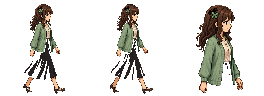
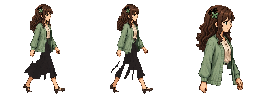
Fix board sprite gaps, online VFX parity, and quick-match pairing.
Seal transparent holes in walk/pose sheets and draw frames at native size; restore pack-aware combat FX online; allow two local tabs to Elo-match even when they share a player id.

diff --git a/src/render/field.js b/src/render/field.js
@@ -114,8 +114,32 @@ export class FieldView {
       case 'bolt-hit':
         this.tileBurst(ev.i, BOLT_COLOR[ev.kind] || '#e9f6ff', 12, 220);
         break;
+      case 'bolt-bounce':
+        sfx.play('toggle');
+        break;
+      case 'skill':
+        if (this.anim?.[ev.pid]) this.anim[ev.pid].castT = Math.max(this.anim[ev.pid].castT, 0.35);
+        sfx.play('buff');
+        break;
+      case 'ignite':
+        this.tileBurst(ev.i, '#ff8a3c', 10, 140, { up: 50, size: 5 });
+        sfx.play('burn');
+        break;
+      case 'gas': {
+        const color = gasInfo(game, ev.kind)?.color || '#d6e86a';
+        this.tileBurst(ev.i, color, 6, 70, { gravity: -25, size: 7, life: 0.55 });
+        sfx.play('gas');
+        break;
+      }
+      case 'glitch':
+        this.tileBurst(ev.i, '#9ad0ff', 8, 100, { gravity: -10, size: 4, life: 0.45 });
+        sfx.play('warn');
+        break;
+      case 'glitch-clear':
+        this.tileBurst(ev.i, '#cfe0ff', 4, 60, { size: 3, life: 0.3 });
+        break;
       case 'telegraph': sfx.play('warn'); break;
-      case 'strike': this.onStrike(ev, sfx); break;
+      case 'strike': this.onStrike(game, ev, sfx); break;
       case 'explosion': {
         const c = this.tileBurst(ev.i, '#ffb23c', 18, 320, { size: 6 });
         this.burst(c.x, c.y, '#fff1b8', 8, 180, { size: 4 });
@@ -190,8 +214,9 @@ export class FieldView {
     }
   }
 
-  onStrike(ev, sfx) {
-    const color = (ev.kind === 'gas' ? GASES[ev.gas]?.color : STRIKE_COLOR[ev.kind]) || '#e9f6ff';
+  onStrike(game, ev, sfx) {
+    const gasColor = gasInfo(game, ev.gas)?.color;
+    const color = (ev.kind === 'gas' ? gasColor : STRIKE_COLOR[ev.kind]) || '#e9f6ff';
     for (const i of ev.tiles) {
       if (ev.kind === 'gas') this.tileBurst(i, color, 4, 60, { gravity: -20, size: 9, life: 0.7 });
       else if (ev.kind === 'water') this.tileBurst(i, color, 7, 150, { up: 120 });
@@ -205,11 +230,13 @@ export class FieldView {
       } else if (ev.kind === 'base') {
         const c = this.tileBurst(i, color, 6, 140, { up: 50, size: 5 });
         this.ring(c.x, c.y, color, 42, 0.28);
+      } else if (ev.kind === 'spark') {
+        this.tileBurst(i, color, 10, 200, { size: 4 });
       } else if (ev.kind !== 'blast') this.tileBurst(i, color, 7, 160, { up: 80 });
     }
     if (ev.kind === 'trump') this.shake = 22;
     const sound = {
-      gas: 'gas', water: 'splash', frost: 'freeze', acid: 'splash', fire: 'burn', cyanide: 'hit', knockout: 'hit', solvent: 'hit', trump: 'boom', wall: 'shield', base: 'splash',
+      gas: 'gas', water: 'splash', frost: 'freeze', acid: 'splash', fire: 'burn', cyanide: 'hit', knockout: 'hit', solvent: 'hit', trump: 'boom', wall: 'shield', base: 'splash', spark: 'bolt',
     }[ev.kind];
     if (sound) sfx.play(sound);
   }
@@ -309,7 +336,7 @@ export class FieldView {
       }
     }
     for (const pid of humans) drawAim(ctx, game.players[pid], time);
-    for (const s of game.strikes) drawTelegraph(ctx, s, time);
+    for (const s of game.strikes) drawTelegraph(ctx, s, time, game);
 
     // Back rows first so chemists and flames overlap the tiles behind them.
     for (let r = 0; r < ROWS; r++) {
@@ -320,7 +347,7 @@ export class FieldView {
         const tile = game.tiles[r * COLS + c];
         const rect = tileRect(c, r);
         if (tile.surf === 'fire') drawFlames(ctx, rect, r * COLS + c, time, Math.min(1, tile.t / 0.4));
-        if (tile.gas) drawGas(ctx, rect, r * COLS + c, tile.gas, time);
+        if (tile.gas) drawGas(ctx, rect, r * COLS + c, tile.gas, time, game);
         if (tile.glitch) drawGlitch(ctx, rect, r * COLS + c, tile.glitch, time, game);
       }
     }
@@ -500,8 +527,13 @@ function drawFlames(ctx, { x, y, w, h }, i, time, fade) {
   }
 }
 
-function drawGas(ctx, { x, y, w, h }, i, gas, time) {
-  const g = GASES[gas.kind];
+function gasInfo(game, kind) {
+  if (!kind) return null;
+  return game?.pack?.gases?.[kind] || GASES[kind] || null;
+}
+
+function drawGas(ctx, { x, y, w, h }, i, gas, time, game) {
+  const g = gasInfo(game, gas.kind);
   if (!g) return;
   const fade = Math.min(1, gas.t / 0.6);
   for (let k = 0; k < 22; k++) {
@@ -545,8 +577,8 @@ function recipeOf(game, id) {
   return game?.pack?.RECIPE_BY_ID?.[id] || RECIPE_BY_ID[id] || null;
 }
 
-function drawTelegraph(ctx, s, time) {
-  const color = (s.kind === 'gas' ? GASES[s.gas]?.color : STRIKE_COLOR[s.kind]) || '#e9f6ff';
+function drawTelegraph(ctx, s, time, game) {
+  const color = (s.kind === 'gas' ? gasInfo(game, s.gas)?.color : STRIKE_COLOR[s.kind]) || '#e9f6ff';
   const k = Math.min(1, s.t / s.delay);
   const blink = Math.floor(time * 12) % 2;
   for (const i of s.tiles) {

diff --git a/test/net.room.test.js b/test/net.room.test.js
@@ -1,0 +1,75 @@
+import test from 'node:test';
+import assert from 'node:assert/strict';
+import { Room } from '../src/net/room.js';
+import { Matchmaker } from '../src/net/matchmaker.js';
+import { step } from '../src/sim/game.js';
+import { TUNE } from '../src/sim/world.js';
+
+function mockConn(id) {
+  const messages = [];
+  return {
+    id,
+    messages,
+    send: (raw) => messages.push(typeof raw === 'string' ? JSON.parse(raw) : raw),
+    close: () => {},
+  };
+}
+
+function lastOfType(conn, type) {
+  return [...conn.messages].reverse().find((m) => m.type === type);
+}
+
+test('room recipe effects apply the same as local play (acid bolt damages foe)', async () => {
+  const room = new Room('TEST');
+  const a = mockConn('a');
+  const b = mockConn('b');
+  room.onConnect(a);
+  room.onConnect(b);
+
+  room.onMessage(a, { type: 'ready', characterId: 'akari', name: 'A' });
+  room.onMessage(b, { type: 'ready', characterId: 'sora', name: 'B' });
+  assert.equal(room.phase, 'playing');
+  assert.ok(room.game);
+  room.stopLoop(); // drive the sim ourselves
+
+  // Skip countdown.
+  step(room.game, TUNE.countdown + 0.05);
+  assert.equal(room.game.phase, 'playing');
+
+  const p0 = room.game.players[0];
+  const p1 = room.game.players[1];
+  Object.assign(p0, { col: 1, row: 1 });
+  Object.assign(p1, { col: 5, row: 1, hp: 100 });
+
+  // Put HCl in pot A and run (instant acid bolt).
+  p0.hotbar[0].el = 'H';
+  p0.hotbar[1].el = 'Cl';
+  assert.ok(room.onMessage(a, { type: 'act', action: { type: 'slot', i: 0 } }) !== false);
+  room.onMessage(a, { type: 'act', action: { type: 'slot', i: 1 } });
+  room.onMessage(a, { type: 'act', action: { type: 'run' } });
+  assert.ok(room.game.bolts.length >= 1, 'acid bolt should spawn');
+
+  // Drive bolts across the board.
+  for (let i = 0; i < 90; i++) step(room.game, 1 / 60);
+
+  assert.ok(p1.hp < 100, `foe should take acid damage, hp=${p1.hp}`);
+});
+
+test('matchmaker pairs two tabs that share a playerId', async () => {
+  const store = {};
+  const mm = new Matchmaker({
+    load: (k) => store[k],
+    save: (k, v) => { store[k] = v; },
+    createCode: () => 'AB12',
+  });
+  const a = mockConn('tab1');
+  const b = mockConn('tab2');
+  mm.onConnect(a);
+  mm.onConnect(b);
+  await mm.enqueue(a, { playerId: 'same', name: 'A', packId: 'chemistry' });
+  await mm.enqueue(b, { playerId: 'same', name: 'B', packId: 'chemistry' });
+  assert.ok(lastOfType(a, 'matched'), 'tab1 matched');
+  assert.ok(lastOfType(b, 'matched'), 'tab2 matched');
+  assert.equal(lastOfType(a, 'matched').code, 'AB12');
+  mm.stop();
+});

diff --git a/src/net/matchmaker.js b/src/net/matchmaker.js
@@ -65,6 +65,7 @@ export class Matchmaker {
   }
 
   onConnect(conn) {
+    if (conn.id == null) conn.id = `q_${Math.random().toString(36).slice(2, 9)}`;
     this.start();
     this.send(conn, { type: 'queue_hello' });
   }
@@ -142,7 +143,7 @@ export class Matchmaker {
 
     for (let i = 0; i < waiting.length; i++) {
       const a = waiting[i];
-      if (used.has(a.playerId)) continue;
+      if (used.has(a.conn.id)) continue;
       if (!this.queue.includes(a)) continue;
 
       let best = null;
@@ -152,8 +153,9 @@ export class Matchmaker {
       for (let j = 0; j < waiting.length; j++) {
         if (i === j) continue;
         const b = waiting[j];
-        if (used.has(b.playerId)) continue;
-        if (a.playerId === b.playerId) continue;
+        // Pair by connection so two browser tabs (same localStorage playerId)
+        // can still quick-match for local testing.
+        if (used.has(b.conn.id) || a.conn === b.conn) continue;
         if (a.packId !== b.packId) continue;
         if (!this.queue.includes(b)) continue;
         const diff = Math.abs(a.elo - b.elo);
@@ -167,8 +169,8 @@ export class Matchmaker {
       }
 
       if (!best) continue;
-      used.add(a.playerId);
-      used.add(best.playerId);
+      used.add(a.conn.id);
+      used.add(best.conn.id);
       await this.pair(a, best);
     }
 

diff --git a/src/render/sprites.js b/src/render/sprites.js
@@ -28,9 +28,9 @@ export function preloadPortraits(chars) {
   for (const entry of chars) {
     const id = typeof entry === 'string' ? entry : entry.id;
     const pack = typeof entry === 'string' ? 'chemistry' : (entry.pack || 'chemistry');
-    load(portraits, id, characterAsset(id, pack, 'portrait.png', 'pack20'));
-    load(walks, id, characterAsset(id, pack, 'walk.png', 'pack20'));
-    load(poses, id, characterAsset(id, pack, 'poses.png', 'pack20'));
+    load(portraits, id, characterAsset(id, pack, 'portrait.png', 'pack21'));
+    load(walks, id, characterAsset(id, pack, 'walk.png', 'pack21'));
+    load(poses, id, characterAsset(id, pack, 'poses.png', 'pack21'));
   }
 }
 

diff --git a/src/sim/serialize.js b/src/sim/serialize.js
@@ -2,6 +2,7 @@
 // step/act; they only paint what the host sends.
 import { createGame } from './game.js';
 import { attachCharacter } from './traits.js';
+import { getPack } from '../packs/index.js';
 
 function snapTile(t) {
   return {
@@ -92,7 +93,8 @@ export function hydrateGame(snap, into = null) {
     packId: snap.packId || 'chemistry',
   });
   game.rng.setState(snap.rng);
-  game.packId = snap.packId || game.packId;
+  game.packId = snap.packId || game.packId || 'chemistry';
+  game.pack = getPack(game.packId);
   game.time = snap.time;
   game.phase = snap.phase;
   game.countdown = snap.countdown;

diff --git a/src/render/chemist.js b/src/render/chemist.js
@@ -5,7 +5,8 @@ import { playerColor, viewFacing } from './layout.js';
 import { alpha, text } from './draw.js';
 import { getPortrait, getWalkSheet, getPoseSheet, POSE } from './sprites.js';
 
-const DRAW_H = 100;
+// Native sheet frame height is 96px — draw 1:1 to avoid nearest-neighbor holes.
+const DRAW_H = 96;
 const WALK_FRAMES = 3;
 const POSE_FRAMES = 4;
 // Walk progress 0..1 → sheet frames (plant → step → plant → step)

diff --git a/src/sim/world.js b/src/sim/world.js
@@ -219,6 +219,7 @@ export function gasify(game, i, kind, dur) {
   const tile = game.tiles[i];
   tile.gas = { kind, t: dur };
   tile.glitch = null;
+  emit(game, 'gas', { i, kind });
   const gases = game.pack?.gases || GASES;
   if (tile.surf === 'fire' && gases[kind]?.flammable) explode(game, i);
 }
